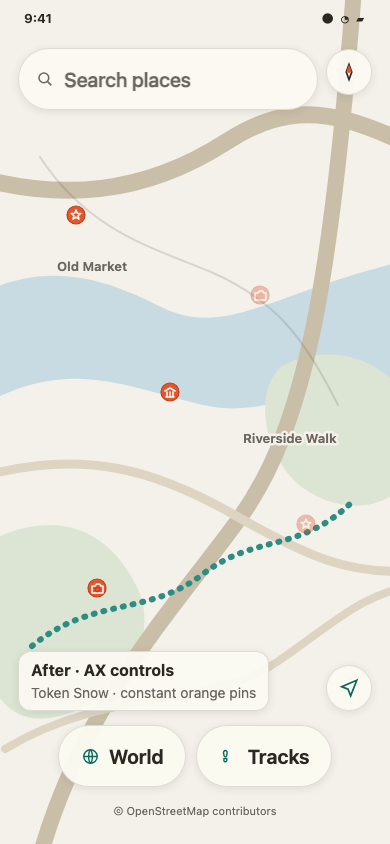
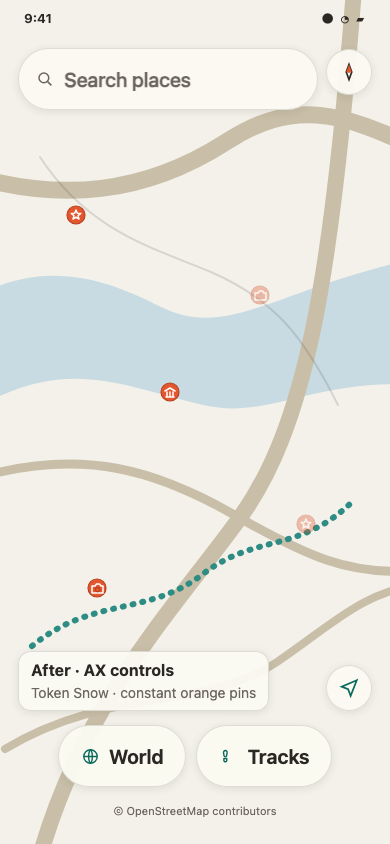
Address T1.5 adversarial review

diff --git a/docs/design/design-system/t1.5-map-theme-evidence.html b/docs/design/design-system/t1.5-map-theme-evidence.html
@@ -10,12 +10,9 @@
   body {
     --ground: #F4F1EA;
     --land: #ECE8DD;
-    --park: #E4E8D8;
     --water: #DCE3E5;
     --road: #E3DED2;
-    --road-minor: #E8E4DA;
     --boundary: #CDC7B8;
-    --label: #676157;
     --surface: #FBFAF2;
     --ink: #2B2823;
     --muted: #6B675F;
@@ -32,12 +29,9 @@
   body[data-variant="after"],
   body[data-variant="ax"] {
     --land: #F4F1EA;
-    --park: #DCE5D4;
     --water: #C9DBE2;
     --road: #C9BFA8;
-    --road-minor: #DDD5C2;
     --boundary: rgba(43, 40, 35, 0.14);
-    --label: #6B675F;
   }
   body[data-variant="ax"] {
     --control-height: 62px;
@@ -167,15 +161,6 @@
     color: var(--muted);
     font-size: 11px;
   }
-  .map-label {
-    fill: var(--label);
-    paint-order: stroke;
-    stroke: var(--ground);
-    stroke-width: 5px;
-    stroke-linejoin: round;
-    font-size: 13px;
-    font-weight: 650;
-  }
   .pin circle { fill: var(--pin); stroke: #B8421F; stroke-width: 1.2; }
   .pin path, .pin polygon {
     fill: none;
@@ -189,21 +174,17 @@
 </head>
 <body>
 <main class="home" aria-label="Making Tracks Snow map home">
-  <svg class="map" viewBox="0 0 390 844" role="img" aria-label="Map home with roads, water, parks, tracks, and pins">
-    <rect width="390" height="844" fill="var(--ground)"/>
+  <svg class="map" viewBox="0 0 390 844" role="img" aria-label="Snow map home with roads, water, boundaries, track, and pins">
+    <rect width="390" height="844" fill="var(--land)"/>
     <path d="M-30 300 C42 257 106 279 159 306 C230 342 277 286 431 255 L431 386 C315 375 272 421 203 405 C116 384 64 355 -30 412Z" fill="var(--water)"/>
-    <path d="M-18 545 C49 508 105 523 137 587 C161 635 126 707 48 718 C4 724 -18 684 -18 628Z" fill="var(--park)"/>
-    <path d="M282 366 C344 332 422 375 419 449 C416 500 356 525 303 488 C267 462 250 393 282 366Z" fill="var(--park)"/>
     <g fill="none" stroke-linecap="round">
       <path d="M-34 174 C61 203 145 194 226 142 C291 100 339 109 424 152" stroke="var(--road)" stroke-width="17"/>
       <path d="M35 874 C78 707 170 614 239 519 C305 428 332 284 355 -24" stroke="var(--road)" stroke-width="16"/>
-      <path d="M-20 477 C84 448 157 470 238 517 C303 554 350 577 416 570" stroke="var(--road-minor)" stroke-width="9"/>
-      <path d="M5 749 C109 686 207 710 277 662 C333 624 361 593 420 584" stroke="var(--road-minor)" stroke-width="8"/>
+      <path d="M-20 477 C84 448 157 470 238 517 C303 554 350 577 416 570" stroke="var(--road)" stroke-width="9"/>
+      <path d="M5 749 C109 686 207 710 277 662 C333 624 361 593 420 584" stroke="var(--road)" stroke-width="8"/>
       <path d="M40 157 C89 232 154 248 211 272 C275 300 304 337 338 405" stroke="var(--boundary)" stroke-width="2"/>
       <path d="M32 646 C93 596 147 617 203 574 C256 533 300 554 354 500" stroke="var(--track)" stroke-width="6" stroke-dasharray="1 9"/>
     </g>
-    <text class="map-label" x="57" y="271">Old Market</text>
-    <text class="map-label" x="243" y="443">Riverside Walk</text>
   </svg>
 
   <svg class="pins" viewBox="0 0 390 844" aria-hidden="true">

diff --git a/ios/App/Sources/Map/MLNMapViewRepresentable.swift b/ios/App/Sources/Map/MLNMapViewRepresentable.swift
@@ -973,10 +973,10 @@ struct MLNMapViewRepresentable: UIViewRepresentable {
         private func addClusterLayers(source: MLNShapeSource, style: MLNStyle, pinSize: PinSize, theme: MapTheme) {
             let circle = MLNCircleStyleLayer(identifier: "pin-clusters-circle", source: source)
             circle.predicate = NSPredicate(mglJSONObject: PinLayers.clusterFilter().foundationObject)
-            circle.circleColor = NSExpression(forConstantValue: MapThemeColor.uiColor(css: PinLayers.pinColor))
+            circle.circleColor = NSExpression(forConstantValue: MapThemeColor.uiColor(css: PinLayers.pinColor)!)
             circle.circleOpacity = NSExpression(forConstantValue: 0.92)
             circle.circleRadius = NSExpression(forConstantValue: PinLayers.clusterBubbleRadius(pinSize: pinSize))
-            circle.circleStrokeColor = NSExpression(forConstantValue: MapThemeColor.uiColor(css: theme.background))
+            circle.circleStrokeColor = NSExpression(forConstantValue: MapThemeColor.uiColor(css: theme.background)!)
             circle.circleStrokeWidth = NSExpression(forConstantValue: 1.5)
             style.addLayer(circle)
 
@@ -986,7 +986,7 @@ struct MLNMapViewRepresentable: UIViewRepresentable {
             count.textFontNames = NSExpression(forConstantValue: ["Noto Sans Regular"])
             count.textFontSize = NSExpression(forConstantValue: PinLayers.clusterCountTextSize(pinSize: pinSize))
             count.textColor = NSExpression(forConstantValue: UIColor.white)
-            count.textHaloColor = NSExpression(forConstantValue: MapThemeColor.uiColor(css: theme.labelHalo))
+            count.textHaloColor = NSExpression(forConstantValue: MapThemeColor.uiColor(css: theme.labelHalo)!)
             count.textHaloWidth = NSExpression(forConstantValue: 0.4)
             count.textAllowsOverlap = NSExpression(forConstantValue: true)
             count.textIgnoresPlacement = NSExpression(forConstantValue: true)
@@ -1029,7 +1029,7 @@ struct MLNMapViewRepresentable: UIViewRepresentable {
             line.predicate = filter.map { NSPredicate(mglJSONObject: $0.foundationObject) }
             line.lineCap = NSExpression(forConstantValue: trackStyle.cap)
             line.lineJoin = NSExpression(forConstantValue: trackStyle.join)
-            line.lineColor = NSExpression(forConstantValue: MapThemeColor.uiColor(css: trackStyle.color))
+            line.lineColor = NSExpression(forConstantValue: MapThemeColor.uiColor(css: trackStyle.color)!)
             line.lineOpacity = NSExpression(forConstantValue: trackStyle.opacity)
             line.lineWidth = NSExpression(forConstantValue: trackStyle.width)
             line.lineDashPattern = NSExpression(forConstantValue: trackStyle.dashPattern)

diff --git a/ios/Tests/MakingTracksMapStyleTests/PinLayersTests.swift b/ios/Tests/MakingTracksMapStyleTests/PinLayersTests.swift
@@ -1,4 +1,5 @@
 import XCTest
+import DesignSystem
 import MakingTracksData
 @testable import MakingTracksMapStyle
 
@@ -23,6 +24,12 @@ final class PinLayersTests: XCTestCase {
             XCTAssertEqual(Expression.evaluate(PinLayers.bookmarkFilter(), props), .bool(want.showBookmarkBadge), "bookmark \(state)")
             XCTAssertEqual(Expression.evaluate(PinLayers.heartFilter(), props), .bool(want.showHeartBadge), "heart \(state)")
         }
+    }
+
+    func testPinAndTrackLayerValuesComeFromTheTokenSheet() {
+        XCTAssertEqual(PinLayers.pinColor, PinTokenBlock.constant.pin.mapStyleString)
+        XCTAssertEqual(FADED_OPACITY, PinTokenBlock.constant.pinFaded.opacity)
+        XCTAssertEqual(TrackLayers.lineColor, MaterialTheme.snow.tokens.trackLine.mapStyleString.lowercased())
     }
 
     func testTracksModeKeepsVisitedPinsFullStrengthWithoutLyingAboutVisitState() {
@@ -150,7 +157,7 @@ final class PinLayersTests: XCTestCase {
         XCTAssertEqual(paint["line-opacity"], .double(TrackLayers.lineOpacity))
         XCTAssertEqual(paint["line-width"], .double(TrackLayers.lineWidth))
         XCTAssertEqual(paint["line-dasharray"], .array(TrackLayers.lineDashPatternValues.map(JSONValue.double)))
-        XCTAssertEqual(TrackLayers.lineColor, "#2d8c83")
+        XCTAssertEqual(TrackLayers.lineColor, MaterialTheme.snow.tokens.trackLine.mapStyleString.lowercased())
         XCTAssertEqual(TrackLayers.lineWidth, 6.2, accuracy: 1e-9)
         XCTAssertEqual(TrackLayers.lineOpacity, 1.00, accuracy: 1e-9)
         XCTAssertEqual(TrackLayers.lineDotLength, 1.0, accuracy: 1e-9)

diff --git a/ios/App/Tests/AppShellTests.swift b/ios/App/Tests/AppShellTests.swift
@@ -1965,8 +1965,8 @@ final class AppShellTests: XCTestCase {
         ))
     }
 
-    func testMapThemeColorParsesOpaqueHexAndTranslucentRGBA() {
-        let color = MapThemeColor.uiColor(css: MapTheme.definedPaper.background)
+    func testMapThemeColorParsesOpaqueHexAndSnowBoundaryToken() throws {
+        let color = try XCTUnwrap(MapThemeColor.uiColor(css: MapTheme.definedPaper.background))
         var red: CGFloat = 0
         var green: CGFloat = 0
         var blue: CGFloat = 0
@@ -1978,7 +1978,7 @@ final class AppShellTests: XCTestCase {
         XCTAssertEqual(Int(round(blue * 255)), 0xE5)
         XCTAssertEqual(alpha, 1)
 
-        let translucent = MapThemeColor.uiColor(css: "rgba(43, 40, 35, 0.14)")
+        let translucent = try XCTUnwrap(MapThemeColor.uiColor(css: MapTheme.snow.boundaries))
         XCTAssertTrue(translucent.getRed(&red, green: &green, blue: &blue, alpha: &alpha))
         XCTAssertEqual(Int(round(red * 255)), 43)
         XCTAssertEqual(Int(round(green * 255)), 40)
@@ -1987,7 +1987,9 @@ final class AppShellTests: XCTestCase {
     }
 
     func testMapThemeColorRejectsMalformedCSSInsteadOfSubstitutingBeige() {
+        XCTAssertNil(MapThemeColor.uiColor(css: "not-a-color"))
         XCTAssertNil(MapThemeColor.components(css: "not-a-color"))
+        XCTAssertNil(MapThemeColor.components(css: "rgba(256, 40, 35, 0.14)"))
         XCTAssertNil(MapThemeColor.components(css: "rgba(43, 40, 35, 1.4)"))
     }
 

diff --git a/ios/App/Sources/Map/MapScreen.swift b/ios/App/Sources/Map/MapScreen.swift
@@ -9277,12 +9277,15 @@ enum MapThemeColor {
     }
 
     static func color(css: String) -> Color {
-        Color(uiColor: uiColor(css: css))
+        guard let color = uiColor(css: css) else {
+            preconditionFailure("Unsupported map theme colour: \(css)")
+        }
+        return Color(uiColor: color)
     }
 
-    static func uiColor(css: String) -> UIColor {
+    static func uiColor(css: String) -> UIColor? {
         guard let components = components(css: css) else {
-            preconditionFailure("Unsupported map theme colour: \(css)")
+            return nil
         }
 
         return UIColor(

diff --git a/ios/Sources/MakingTracksMapStyle/PinAppearance.swift b/ios/Sources/MakingTracksMapStyle/PinAppearance.swift
@@ -1,7 +1,8 @@
+import DesignSystem
 import MakingTracksData
 
 public let FULL_OPACITY = 1.0
-public let FADED_OPACITY = 0.35
+public let FADED_OPACITY = PinTokenBlock.constant.pinFaded.opacity
 
 public struct PinAppearance: Equatable, Sendable {
     public var opacity: Double

diff --git a/docs/design/design-system/README.md b/docs/design/design-system/README.md
@@ -1,6 +1,8 @@
-# Design-system session assets — 2026-07-25
+# Design-system visual assets
 
-Frozen renders from the IA / look-and-feel design session (Rob + fable-design, 2026-07-25).
+## Frozen design-session record
+
+These renders come from the IA / look-and-feel design session (Rob + fable-design, 2026-07-25).
 The ratified spec is [`docs/superpowers/specs/2026-07-25-design-system-and-ia-design.md`](../../superpowers/specs/2026-07-25-design-system-and-ia-design.md);
 these assets are its visual record and are embedded in the implementation epic.
 
@@ -9,6 +11,13 @@ these assets are its visual record and are embedded in the implementation epic.
 | `coherence.{html,png}` | One language, two materials: snow and mud map homes (identical geometry), snow place card, mud Tracks door. Pins never theme. |
 | `ia-doors.{html,png}` | The map and its two doors (World / Tracks). **Predates one ruling:** Offline maps + Coverage moved to Settings and a Search slot joined the World door — see spec §2. The door pattern stands. |
 | `typography.{html,png}` | The story-voice decision record: Newsreader ratified over Besley, Piazzolla, Literata (and over dropped Fraunces / Bricolage / New York), with research rationale inline. |
+
+## Implementation evidence
+
+These renders record shipped implementation changes; they are not frozen design-session rulings.
+
+| Asset | What it shows |
+|---|---|
 | `t1.5-map-theme-evidence.html` + `t1.5-map-theme-{before,after,after-ax}.png` | T1.5 before/after evidence at 390×844. One source selects `?variant=before`, `after`, or `ax`; the after render is the AC34 constant-pin pop check. |
 
 HTML files are self-contained (fonts load from Google Fonts when online; system fallbacks otherwise).
